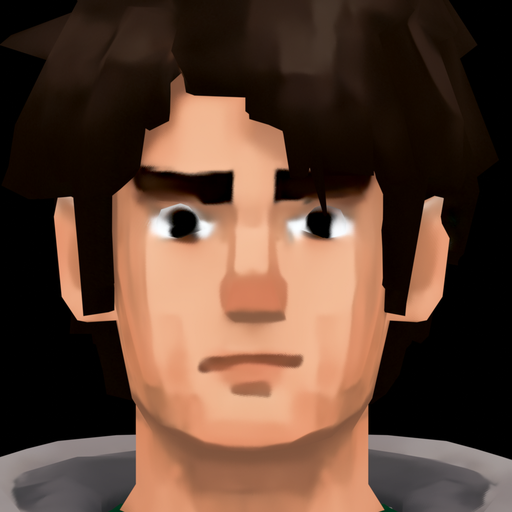
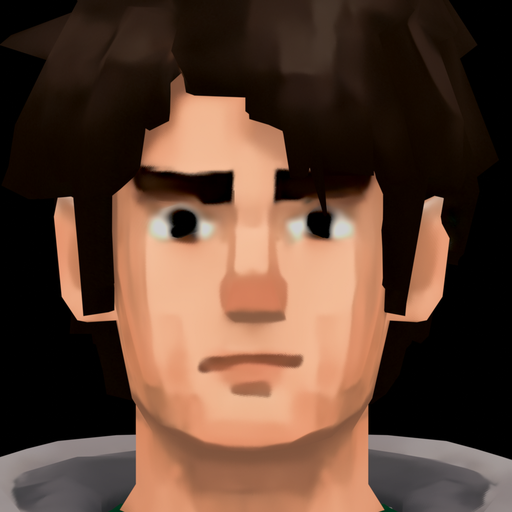
Protagonist face textures: grey eye facets and stark white glints smoothed and warmed

diff --git a/creatures/tools/protagonist_face_tex_prepare.py b/creatures/tools/protagonist_face_tex_prepare.py
@@ -9,6 +9,30 @@ out = os.path.join(base, "face_geo/tex")
 F = np.array(Image.open(os.path.join(base, "work/face/face_flat.png")).convert("RGB")).astype(np.float32)
 SRC = {"neutral": None, "blink": "eyes_closed_a", "talk_small": "talk_small", "talk_wide": "talk_wide", "scared": "scared_open"}
 REF = [(330, 250, 680, 320), (300, 520, 400, 690), (600, 520, 700, 690)]          # forehead and both cheeks: skin that does not change
+from PIL import ImageFilter
+EYEB = [(268, 372, 458, 496), (538, 372, 722, 496)]
+
+
+def clean_eyes(A):
+    """Remove the hard grey facets and outlines around the eyes: the light (white / grey) pixels are smoothed, warmed a little and blended in
+    softly; the dark pupil and lashes are left alone."""
+    out = A.copy()
+    for (x0, y0, x1, y1) in EYEB:
+        sub = A[y0:y1, x0:x1]
+        lum = sub @ np.array([0.299, 0.587, 0.114], np.float32)
+        sat = sub.max(2) - sub.min(2)
+        mask = ((lum > 105) & (sat < 70)).astype(np.float32)
+        mask = np.array(Image.fromarray((mask * 255).astype(np.uint8)).filter(ImageFilter.MaxFilter(5)).filter(ImageFilter.GaussianBlur(4))).astype(np.float32)[..., None] / 255.0
+        smooth = np.array(Image.fromarray(sub.astype(np.uint8)).filter(ImageFilter.GaussianBlur(5))).astype(np.float32)
+        warm = smooth * np.array([1.0, 0.95, 0.88], np.float32)
+        warm = np.minimum(warm, 208.0)
+        # keep the dark pupil crisp: where the original is dark, use it
+        keep = np.clip((95.0 - lum) / 45.0, 0, 1)[..., None]
+        newsub = sub * (1 - mask) + (warm * (1 - keep) + sub * keep) * mask
+        out[y0:y1, x0:x1] = newsub
+    return out
+
+
 for name, src in SRC.items():
     if src is None:
         A = F.copy()
@@ -20,5 +44,7 @@ for name, src in SRC.items():
         off = np.mean(gain, axis=0)
         print(name, "colour offset", off.round(1))
         A = np.clip(A + off, 0, 255)
+    if name != "blink":
+        A = clean_eyes(A.astype(np.float32))
     Image.fromarray(A.astype(np.uint8)).resize((512, 512), Image.LANCZOS).save(os.path.join(out, "face_%s.png" % name))
 print("DONE")
